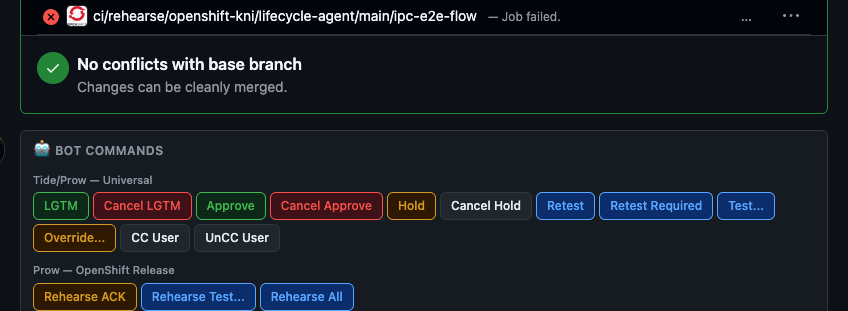
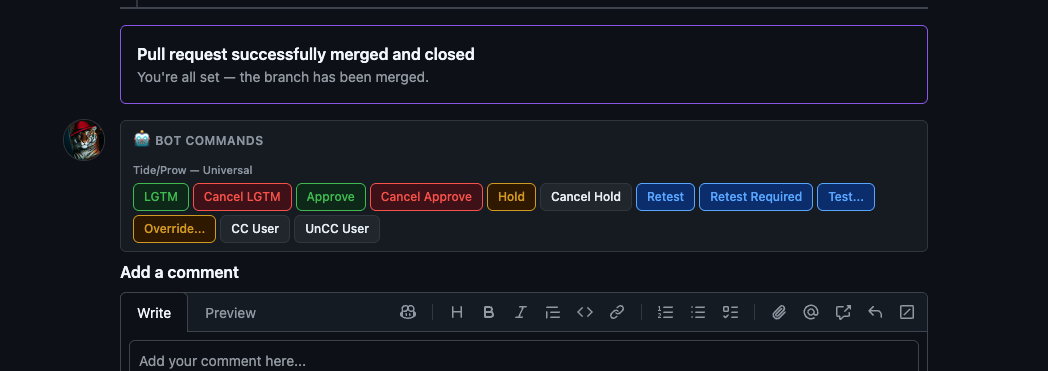
Enhance rehearsal command functionality and add new screenshots

diff --git a/content.js b/content.js
@@ -108,6 +108,29 @@
     return names;
   }
 
+  function scrapeRehearsalNames() {
+    const names = [];
+    const seen = new Set();
+    const comments = document.querySelectorAll('.timeline-comment, .js-comment-container, [id^="issuecomment-"]');
+    for (const comment of comments) {
+      const body = comment.querySelector('.comment-body, .js-comment-body, .markdown-body');
+      if (!body) continue;
+      if (!body.textContent.includes('REHEARSALNOTIFIER')) continue;
+      const table = body.querySelector('table');
+      if (!table) continue;
+      const rows = table.querySelectorAll('tbody tr');
+      for (const row of rows) {
+        const cell = row.querySelector('td');
+        if (!cell) continue;
+        const name = cell.textContent.trim();
+        if (!name || seen.has(name)) continue;
+        seen.add(name);
+        names.push({ name, status: 'pending' });
+      }
+    }
+    return names;
+  }
+
   async function fetchPresubmitJobs() {
     if (!CM.isContextValid() || !currentRepo) return null;
     try {
@@ -131,7 +154,9 @@
     const filter = command.jobPickerFilter || 'all';
     let jobs;
 
-    if (usePresubmits && lastPresubmitJobs && lastPresubmitJobs.length > 0) {
+    if (command.jobSource === 'rehearsals') {
+      jobs = scrapeRehearsalNames();
+    } else if (usePresubmits && lastPresubmitJobs && lastPresubmitJobs.length > 0) {
       jobs = lastPresubmitJobs.map(j => ({
         name: j.name,
         status: j.optional ? 'pending' : 'passed',
@@ -277,7 +302,9 @@
       e.stopPropagation();
       if (selected.size === 0) return;
       const names = Array.from(selected).map(n => CM.sanitizeCommand(n));
-      const cmdText = names.map(n => template.replace('{input}', n)).join('\n');
+      const cmdText = command.joinMode === 'single-command'
+        ? template.replace('{input}', names.join(' '))
+        : names.map(n => template.replace('{input}', n)).join('\n');
 
       if (command.requireConfirm || config.globalSettings.confirmBeforePost) {
         if (!confirm(`Post:\n${cmdText}`)) return;

diff --git a/config-manager.js b/config-manager.js
@@ -25,6 +25,8 @@ GHBCP.ConfigManager = (() => {
       hasInput: opts.hasInput || false,
       hasJobPicker: opts.hasJobPicker || false,
       jobPickerFilter: opts.jobPickerFilter || 'all',
+      jobSource: opts.jobSource || '',
+      joinMode: opts.joinMode || '',
       inputPlaceholder: opts.inputPlaceholder || '',
       commandTemplate: opts.commandTemplate || '',
       shortcut: opts.shortcut || ''
@@ -67,7 +69,7 @@ GHBCP.ConfigManager = (() => {
         repoPatterns: ['openshift/release'],
         globalCommands: [
           cmd('Rehearse ACK', '/pj-rehearse ack', 'warning', { requireConfirm: true, description: 'Acknowledge rehearsal' }),
-          cmd('Rehearse Test...', '/pj-rehearse', 'primary', { hasInput: true, inputPlaceholder: 'test-job-name', commandTemplate: '/pj-rehearse {input}', description: 'Rehearse specific test' }),
+          cmd('Rehearse...', '/pj-rehearse', 'primary', { hasJobPicker: true, jobSource: 'rehearsals', joinMode: 'single-command', commandTemplate: '/pj-rehearse {input}', description: 'Rehearse specific tests from REHEARSALNOTIFIER' }),
           cmd('Rehearse All', '/pj-rehearse', 'primary', { description: 'Rehearse all tests' })
         ],
         checkCommands: [],